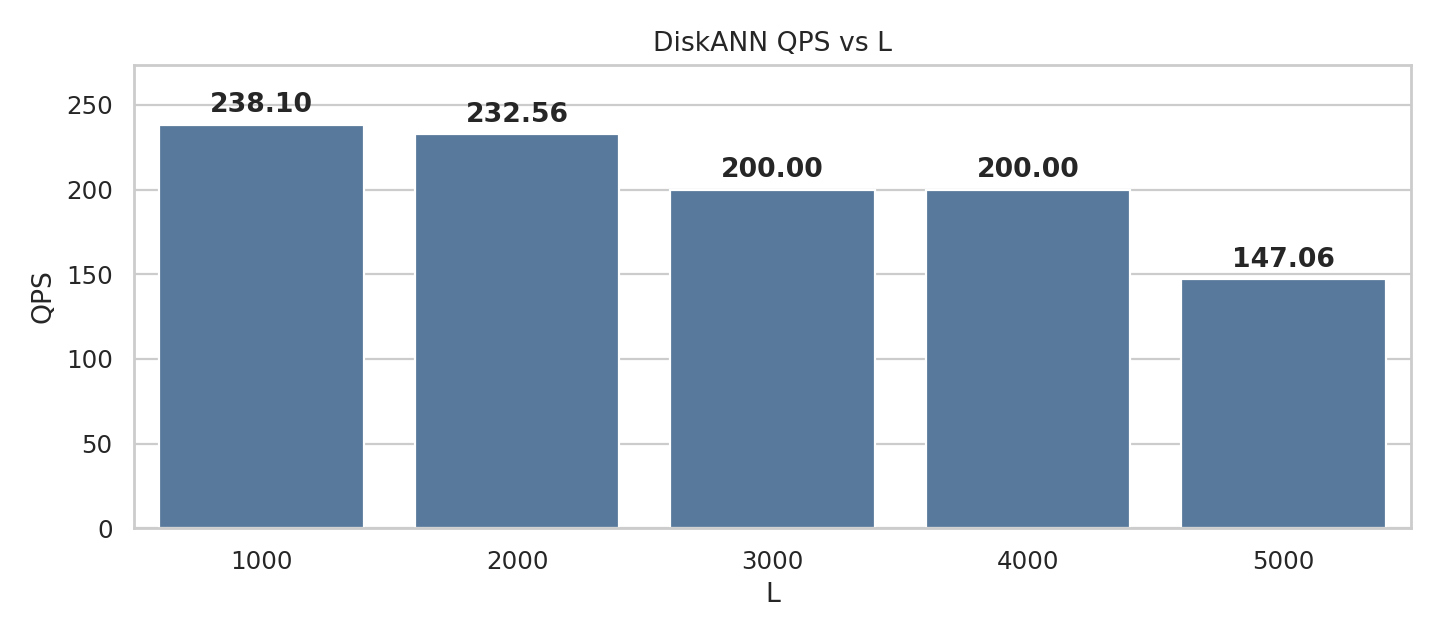
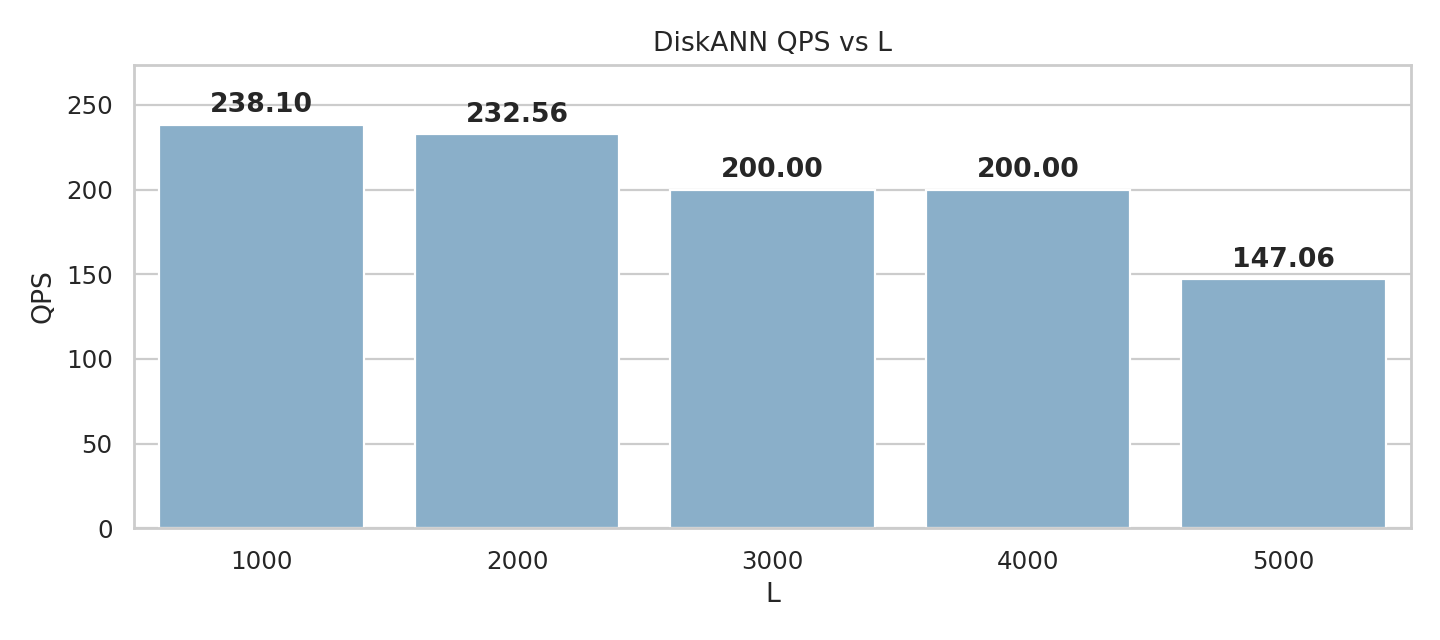
plot changes

diff --git a/docs/_includes/header.html b/docs/_includes/header.html
@@ -24,7 +24,7 @@
                 {% if path == 'demo.md' %}
                 <a class="page-link" href="http://api.ds-serve.org:30888/ui" target="_blank">Web Interface</a>
                 {% elsif path == 'paper.md' %}
-                <a class="page-link" href="https://berkeley-large-rag.github.io/RAG-DS-Serve/assets/DS_SERVE_Camera_Ready.pdf" target="_blank">Paper</a>
+                <a class="page-link" href="{{ '/assets/DS_SERVE_Camera_Ready.pdf' | relative_url }}" target="_blank">Paper</a>
                 {% else %}
                 <a class="page-link" href="{{ my_page.url | relative_url }}">{{ my_page.title | escape }}</a>
                 {% endif %}

diff --git a/scripts/plot_qps.py b/scripts/plot_qps.py
@@ -38,11 +38,12 @@ def plot_diskann_qps(data, out_dir: str) -> None:
     y = [r["QPS"] for r in rows]
 
     plt.figure(figsize=(9, 4))
+    bar_color = "#80b1d3"  # darker Set3 blue
     if sns:
         sns.set_theme(style="whitegrid")
-        ax = sns.barplot(x=x, y=y, color="#4C78A8")
+        ax = sns.barplot(x=x, y=y, color=bar_color)
     else:
-        ax = plt.bar(x, y, color="#4C78A8")
+        ax = plt.bar(x, y, color=bar_color)
         ax = plt.gca()
     plt.title("DiskANN QPS vs L")
     plt.xlabel("L")
@@ -57,6 +58,57 @@ def plot_diskann_qps(data, out_dir: str) -> None:
     annotate_bars(ax)
     plt.tight_layout()
     plt.savefig(os.path.join(out_dir, "diskann_qps_vs_L.png"), dpi=160)
+    plt.close()
+
+
+def plot_diskann_vs_ivfpq_summary(diskann_rows, faiss_rows, out_dir: str) -> None:
+    """Compare best QPS and latency between DiskANN and IVFPQ on one figure."""
+    # Best QPS rows
+    diskann_best_qps = max(diskann_rows, key=lambda r: r["QPS"])
+    faiss_best_qps = max(faiss_rows, key=lambda r: r["QPS"])
+    # Use the same rows for latency comparison (their total_ms)
+    diskann_latency = diskann_best_qps["total_ms"]
+    faiss_latency = faiss_best_qps["total_ms"]
+
+    colors = {"DiskANN": "#80b1d3", "IVFPQ": "#fb8072"}  # darker Set3
+
+    fig, axs = plt.subplots(1, 2, figsize=(10, 4))
+
+    # QPS comparison
+    qps_labels = ["DiskANN", "IVFPQ"]
+    qps_vals = [diskann_best_qps["QPS"], faiss_best_qps["QPS"]]
+    axs[0].bar(qps_labels, qps_vals, color=[colors["DiskANN"], colors["IVFPQ"]])
+    axs[0].set_title("Throughput (higher is better)")
+    axs[0].set_ylabel("QPS")
+    for i, v in enumerate(qps_vals):
+        axs[0].annotate(f"{v:.1f}", (i, v), ha="center", va="bottom",
+                        fontsize=11, fontweight="bold", xytext=(0, 4), textcoords="offset points")
+    try:
+        ymax = max(qps_vals)
+        if math.isfinite(ymax) and ymax > 0:
+            axs[0].set_ylim(0, ymax * 1.15)
+    except Exception:
+        pass
+
+    # Latency comparison (total_ms)
+    lat_labels = ["DiskANN", "IVFPQ"]
+    lat_vals = [diskann_latency, faiss_latency]
+    axs[1].bar(lat_labels, lat_vals, color=[colors["DiskANN"], colors["IVFPQ"]])
+    axs[1].set_title("End-to-end latency (lower is better)")
+    axs[1].set_ylabel("Latency (ms)")
+    for i, v in enumerate(lat_vals):
+        axs[1].annotate(f"{v:.2f}", (i, v), ha="center", va="bottom",
+                        fontsize=11, fontweight="bold", xytext=(0, 4), textcoords="offset points")
+    try:
+        ymax = max(lat_vals)
+        if math.isfinite(ymax) and ymax > 0:
+            axs[1].set_ylim(0, ymax * 1.15)
+    except Exception:
+        pass
+
+    fig.suptitle("DiskANN vs IVFPQ (same plot): DiskANN recommended", fontsize=14, fontweight="bold")
+    plt.tight_layout()
+    plt.savefig(os.path.join(out_dir, "diskann_vs_ivfpq_qps_latency.png"), dpi=160)
     plt.close()
 
 
@@ -99,7 +151,7 @@ def plot_diskann_latency_breakdown(data, out_dir: str) -> None:
         sns.set_theme(style="whitegrid")
     ax = plt.gca()
 
-    palette = ["#4C78A8", "#F58518", "#54A24B", "#E45756", "#72B7B2"]
+    palette = ["#80b1d3", "#fb8072", "#b3de69", "#fdb462", "#bc80bd"]  # darker Set3 tones
     for idx, (series, (key, disp)) in enumerate(zip(values_by_metric, metrics)):
         bar_positions = [i + idx * width - (width * (num_bars - 1) / 2) for i in x]
         ax.bar(bar_positions, series, width=width, label=disp, color=palette[idx % len(palette)])
@@ -571,6 +623,7 @@ def main() -> None:
         actions = {
             "diskann_qps": lambda: plot_diskann_qps(diskann_rows, out_dir),
             "diskann_latency": lambda: plot_diskann_latency_breakdown(diskann_rows, out_dir),
+            "diskann_vs_ivfpq": lambda: plot_diskann_vs_ivfpq_summary(diskann_rows, faiss_rows, out_dir),
             "faiss_qps": lambda: plot_faiss_qps_and_latency(faiss_rows, out_dir, which="qps"),
             "faiss_latency": lambda: plot_faiss_qps_and_latency(faiss_rows, out_dir, which="latency"),
             "diskann_index_only": lambda: plot_diskann_index_only_qps(idx_only_rows, out_dir),
@@ -586,6 +639,7 @@ def main() -> None:
     else:
         plot_diskann_qps(diskann_rows, out_dir)
         plot_diskann_latency_breakdown(diskann_rows, out_dir)
+        plot_diskann_vs_ivfpq_summary(diskann_rows, faiss_rows, out_dir)
         plot_faiss_qps_and_latency(faiss_rows, out_dir)
         plot_diskann_index_only_qps(idx_only_rows, out_dir)
         plot_accuracy_triviaqa_faiss_vs_diskann(out_dir)

diff --git a/scripts/plot_faiss_batch_vs_single.py b/scripts/plot_faiss_batch_vs_single.py
@@ -18,12 +18,12 @@ except Exception:
 
 REPO_ROOT = os.path.abspath(os.path.join(os.path.dirname(__file__), ".."))
 PLOT_DIR = os.path.join(REPO_ROOT, "docs", "plots")
-# ColorBrewer Set3 palette for consistent professional colors
-PALETTE = ["#8dd3c7", "#ffffb3", "#bebada", "#fb8072", "#80b1d3", "#fdb462", "#b3de69"]
-COLOR_QPS = PALETTE[4]      # soft blue
-COLOR_EMBED = PALETTE[0]    # teal
-COLOR_SEARCH = PALETTE[3]   # coral
-COLOR_TOTAL = PALETTE[5]    # orange
+# Darker subset of ColorBrewer Set3 (avoids the very light pastels)
+PALETTE = ["#80b1d3", "#fb8072", "#bc80bd", "#fdb462", "#b3de69", "#bebada"]
+COLOR_QPS = PALETTE[0]      # blue
+COLOR_EMBED = PALETTE[1]    # coral
+COLOR_SEARCH = PALETTE[4]   # green
+COLOR_TOTAL = PALETTE[3]    # orange
 
 # Measurements collected with COUNT=100 shared queries.
 BATCHED_RESULTS: List[Dict[str, float]] = [

diff --git a/scripts/plot_diskann_single_request_qps.py b/scripts/plot_diskann_single_request_qps.py
@@ -21,7 +21,7 @@ except Exception:  # pragma: no cover - seaborn is optional
     sns = None
 
 
-BAR_COLOR = "#80b1d3"  # ColorBrewer Set3 soft blue
+BAR_COLOR = "#80b1d3"  # Darker Set3 blue
 REPO_ROOT = os.path.abspath(os.path.join(os.path.dirname(__file__), ".."))
 OUTPUT_PATH = os.path.join(REPO_ROOT, "docs", "plots", "diskann_single_request_qps_vs_L.png")
 
@@ -60,7 +60,7 @@ def main() -> None:
     if sns:
         sns.set_theme(style="whitegrid")
 
-    plt.figure(figsize=(8.5, 4.2))
+    plt.figure(figsize=(9, 4))
     ax = plt.gca()
     ax.bar(labels, values, color=BAR_COLOR)
     ax.set_xlabel("L", fontsize=13)

diff --git a/scripts/plot_ivfpq_vs_diskann.py b/scripts/plot_ivfpq_vs_diskann.py
@@ -23,8 +23,8 @@ except Exception:  # pragma: no cover - seaborn is optional
     sns = None
 
 
-IVFPQ_COLOR = "#8dd3c7"    # ColorBrewer Set3 teal
-DISKANN_COLOR = "#fb8072"  # ColorBrewer Set3 coral
+IVFPQ_COLOR = "#80b1d3"    # Darker Set3 blue
+DISKANN_COLOR = "#fb8072"  # Darker Set3 coral
 REPO_ROOT = os.path.abspath(os.path.join(os.path.dirname(__file__), ".."))
 DOCS_DIR = os.path.join(REPO_ROOT, "docs")
 METRIC_ORDER = ["Recall", "F1", "EM"]

diff --git a/scripts/plot_diskann_single_request_latency.py b/scripts/plot_diskann_single_request_latency.py
@@ -66,8 +66,8 @@ def main() -> None:
 
     plt.figure(figsize=(12, 5))
     ax = plt.gca()
-    # ColorBrewer Set3 palette
-    palette = ["#8dd3c7", "#fb8072", "#b3de69", "#fdb462"]
+    # Darker subset of ColorBrewer Set3
+    palette = ["#80b1d3", "#fb8072", "#b3de69", "#fdb462"]
 
     for idx, (metric_key, display_name) in enumerate(metrics):
         values = [row[metric_key] for row in SINGLE_REQUEST_LATENCY]

diff --git a/scripts/plot_search_engine_throughput_compare.py b/scripts/plot_search_engine_throughput_compare.py
@@ -70,10 +70,10 @@ def make_plot(
 
 
 def main() -> None:
-    # ColorBrewer Set3 palette
+    # Darker subset of ColorBrewer Set3
     colors = {
         "Google API": "#fb8072",  # coral
-        "DS Serve": "#80b1d3",    # soft blue
+        "DS Serve": "#80b1d3",    # blue
     }
 
     single = [

diff --git a/docs/index.md b/docs/index.md
@@ -154,7 +154,7 @@ details > summary {
 
 
 
-<h2 align="center" style="margin-top: 10px; margin-bottom: 5px; font-size: 28px;">🚀 <b>DS SERVE: A Framework for Efficient and Scalable Neural Retrieval</b></h2>
+<h2 align="center" style="margin-top: 10px; margin-bottom: 5px; font-size: 28px;">🚀 DS SERVE: A Framework for Efficient and Scalable Neural Retrieval</h2>
 
 <p align="center" class="authors" style="margin-bottom: 2px;">
   <a href="https://github.com/berkeleyljj" target="_blank">Jinjian Liu</a><sup>1*</sup>, 
@@ -205,7 +205,7 @@ details > summary {
 
 As an example, most users default to search engines for general knowledge queries even when high-quality web data (e.g., LLM pre-training corpora) is publicly available. However, those engines are costly, low-throughput, and often unreliable at scale.
 
-**DS Serve** addresses these challenges by making it easy to transform any large-scale in-house dataset into a high-throughput, memory-efficient neural retrieval system backed by DiskANN—complete with a web UI, API endpoints, and mechanisms for collecting search-result feedback. Our prototype (400B tokens, 2B vectors, 5 TB embeddings) matches the downstream gains of commercial search endpoints and, to the best of our knowledge, is the largest publicly accessible vector store.
+DS Serve addresses these challenges by making it easy to transform any large-scale in-house dataset into a high-throughput, memory-efficient neural retrieval system backed by DiskANN—complete with a web UI, API endpoints, and mechanisms for collecting search-result feedback. Our prototype (400B tokens, 2B vectors, 5 TB embeddings) matches the downstream gains of commercial search endpoints and, to the best of our knowledge, is the largest publicly accessible vector store.
 
 <p align="center">
   <img src="{{ 'plots/Figure-1.png' | relative_url }}" style="width: 70%;" />
@@ -225,7 +225,7 @@ See below for a set of <a href="#application">new applications our framework ena
 
 ## Application
 
-We envision **DS Serve** enabling a range of high-impact applications:
+We envision DS Serve enabling a range of high-impact applications:
 
 1. **Retrieval-Augmented Generation (RAG)**: DS Serve powers efficient RAG by feeding high-quality search results into LLMs. As shown in the [Performance section](#performance), it delivers superior accuracy and latency compared to both open-source baselines (like IVFPQ) and commercial search endpoints.
 2. **Data Attribution & Curation**: By indexing entire pre-training corpora, DS Serve enables semantic data attribution, complementing n-gram based systems like OLMoTrace. It also facilitates advanced curation—allowing semantic deduplication, decontamination, and customized filtering for query-specific datasets.
@@ -237,7 +237,7 @@ We envision **DS Serve** enabling a range of high-impact applications:
 
 ## User guide
 
-We provide two ways to use **DS Serve**: API calls and a web UI.
+We provide two ways to use DS Serve: API calls and a web UI.
 
 ### API
 For programmatic access, see the API docs: <a href="{{ 'API_DOCUMENTATION.html' | relative_url }}">API Documentation</a>.
@@ -325,6 +325,11 @@ This represents a significantly larger datastore than most prior work, and to th
   <img src="{{ 'accuracy_ivfpq_vs_diskann_triviaqa.png' | relative_url }}" alt="TriviaQA accuracy DiskANN vs IVFPQ" style="width: 44%; margin: 8px;" />
   <img src="{{ 'accuracy_ivfpq_vs_diskann_naturalqs.png' | relative_url }}" alt="NaturalQS accuracy DiskANN vs IVFPQ" style="width: 44%; margin: 8px;" />
 </p>
+<h3 align="center">DiskANN vs IVFPQ: throughput and latency (same graph)</h3>
+<p>Combined comparison: DiskANN achieves higher QPS and lower end-to-end latency than IVFPQ under the tested configs, so DiskANN is the recommended default.</p>
+<p align="center">
+  <img src="{{ 'plots/diskann_vs_ivfpq_qps_latency.png' | relative_url }}" alt="DiskANN vs IVFPQ QPS and latency" style="width: 70%; margin: 8px;" />
+</p>
 <hr />
 
 <h3 align="center">DiskANN latency breakdown</h3>
@@ -352,6 +357,13 @@ This represents a significantly larger datastore than most prior work, and to th
   <img src="{{ 'plots/search_engine_qps_batched.png' | relative_url }}" alt="Batched QPS: Google API vs DS Serve" style="width: 44%; margin: 8px;" />
 </p>
 <p class="small-note"><b>Note:</b> The latency number shown on the UI measures end-to-end wall-clock time (request setup, network travel, JSON encode/decode, rendering). QPS and latency can have small fluctuations depending on network speed.</p>
+
+<details>
+<summary><b>Exact &amp; Diverse (optional toggles)</b></summary>
+<p><b>Exact Search</b> reranks ANN candidates by recomputing exact similaritiy scores using GritLM instead of approxmimation used by ANN. This mode is the best for accuracy-sensitive queries and cached follow-ups for higher speed on similar/same queries.</p>
+<p><b>Diverse Search</b> applies MMR to reduce redundancy: <code>Score(i) = λ·sim(q,d_i) − (1−λ)·max<sub>j∈S</sub> sim(d_i,d_j)</code>. Useful to diversify results when there is noticeable redundancy.</p>
+<p>Use these toggles when you need higher precision (Exact) or to de-duplicate results (Diverse); keep them off for the fastest latency/QPS. They are omitted from the web UI because Exact Search and Diverse Search are both recommended to use with a GPU for optimized latency. If you have the compute you can enable them by building the framework from the source repo following the guidelines as a custom option.</p>
+</details>
 
 ---
 <br/>

diff --git a/docs/paper.md b/docs/paper.md
@@ -1,6 +1,6 @@
 ---
 layout: page
 redirect_to:
-  - https://berkeley-large-rag.github.io/RAG-DS-Serve/assets/DS_SERVE_Camera_Ready.pdf
+- {{ '/assets/DS_SERVE_Camera_Ready.pdf' | relative_url }}
 title: Paper
 ---
